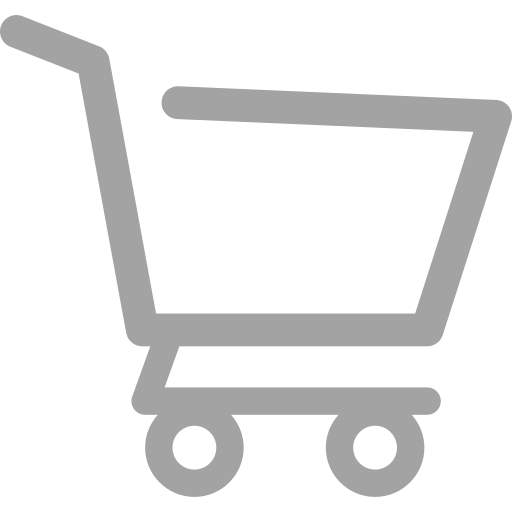
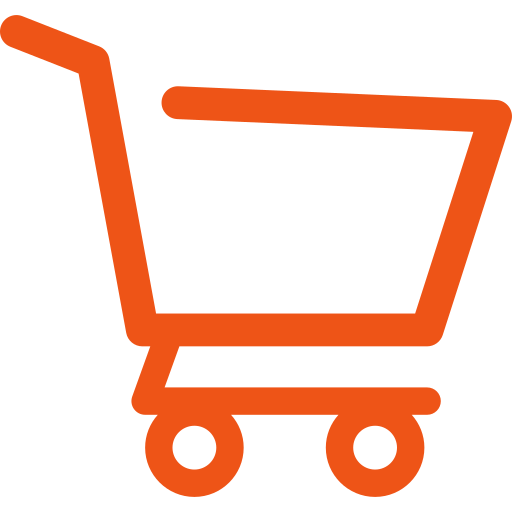
Update UI: Navbar, notifications, empty states (generated by blackbox.ai )

Changed region(s): [[0.0, 0.0312, 1.0, 0.9688]]

diff --git a/pages/Navbar.html b/pages/Navbar.html
@@ -5,9 +5,110 @@
     <title>sx</title>
 <meta name="viewport" content="width=device-width, initial-scale=1.0">
 <link rel="stylesheet" href="../css/Navbar.css">
+<link rel="stylesheet" href="../css/Notification.css">
+
+<style>
+  /* Styles for the overlay */
+  /* #overlay {
+      display: none;
+      position: fixed;
+      top: 0;
+      left: 0;
+      width: 100%;
+      height: 100%;
+      /* background-color: rgba(0, 0, 0, 0.5); 
+      z-index: 9999;
+  }
+
+  /* Styles for the notification container within the overlay *
+  #notificationContainer {
+      position: absolute;
+      top: 50%;
+      left: 85%;
+      transform: translate(-50%, -50%);
+      background-color: white;
+      padding: 20px;
+      border-radius: 5px;
+      box-shadow: 0px 0px 10px rgba(0, 0, 0, 0.5);
+  } */
+  #overlay {
+    display: none;
+    position: fixed;
+    width: 100%;
+    height: 100%;
+    top: 65px; /* Position relative to the navbar */
+    /* left: 0px; Position relative to the right side of the viewport */
+    z-index: 9999;
+}
+
+/* Styles for the notification container within the overlay */
+#notificationContainer {
+    position: absolute;
+    width: 350px;
+    max-width: 90%; /* Limiting the maximum width */
+    background-color: white;
+    padding: 7px;
+    border-radius: 5px;
+    box-shadow: 0px 0px 10px rgba(0, 0, 0, 0.5);
+}
+</style>
+<script>
+  function openOverlay() {
+    // document.getElementById('overlay').innerHTML = '';
+      // Construct HTML for the notification overlay
+      var html = '<div id="overlay">' +
+                      '<div id="notificationContainer" class="notification">' +
+                          '<div class="notificationHeader">Notification</div>' +
+                          '<div class="notes">' +
+                              '<b>Re: Support Case (#123i219021)</b>' +
+                              '<p>Lorem ipsum dolor sit amet consectetur. Ornare massa nunc nibh tristique. Non ligula tristique ut ut libero</p>' +
+                          '</div>' +
+                          '<div class="notificationFooter">' +
+                              '<button><img src="../Images/Setting.png" width="20" height="20"/></button>&nbsp;&nbsp;' +
+                              '<button onclick="markAllRead()"><img src="../Images/double-tick.png" width="20" height="20"/><span>&nbsp;Mark all read</span></button>' +
+                          '</div>' +
+                      '</div>' +
+                  '</div>';
+
+      // Create a temporary div element to hold the HTML
+      var tempDiv = document.createElement('div');
+      // console.log(tempDiv);
+      tempDiv.innerHTML = html;
+// console.log(tempDiv.innerHTML);
+      // Append the notification overlay to the body
+      document.body.appendChild(tempDiv.firstChild);
+      // Show the overlay
+      document.getElementById('overlay').style.display = 'block';
+
+      // Add event listener to close the overlay when clicking outside of it
+      document.getElementById('overlay').addEventListener('click', function(event) {
+          if (event.target === this) {
+              this.style.display = 'none';
+          }
+      });
+  }
+
+  function markAllRead() {
+    // Get the notification container element
+    var notificationContainer = document.getElementById('notificationContainer');
+
+    // Update the content of the notification container
+    notificationContainer.innerHTML = `
+        <div class="notificationHeader">Notification</div>
+        <div class="notificationBodyEmpty">
+            <img src="../Images/EmptyNotification.png" width="258" height="235.5"/>
+            <h3>No Notifications Yet </h3>
+            <h5 class="CBL">Come Back Later</h5>
+        </div>
+    `;
+
+    // Show the overlay
+    document.getElementById('overlay').style.display = 'block';
+}
+
+</script>
 </head>
 <body>
-
 <ul class="navbar">
   <li class="left"> <a href="Home"> <img src="../Images/User.png" width="26" height="26"/></a></li>
 
@@ -16,8 +117,8 @@
  
   <li class="right"> <a href="Profile"> <img src="../Images/User.png" width="26" height="26"/></a></li>
   <li class="right"> <a href="Cart"> <img src="../Images/Cart.png" width="25" height="25"/></a></li>
-  <li class="right"> <a href="Orders"> <img src="../Images/Orders.png" width="24" height="24"/></a></li>
-  <li class="right"> <a href="Orders"> <img src="../Images/Notification.png" width="24" height="24"/></a></li>
+  <li class="right"> <div onclick="openOverlay()"> <img src="../Images/Orders.png" width="24" height="24"/></div></li> 
+  <li class="right"> <div onclick="openOverlay()"> <img src="../Images/Notification.png" width="24" height="24"/></div></li>
 
   <li class="right">
     <form action="/action_page.php" class="search-form">
@@ -31,9 +132,11 @@
   </li>
 </ul>
 <div class="filterDiv">
+  <div id="overlayContainer"></div>
 <div class="ulDiv">
 <ul class="filter">
-  <li > <a href="keyboards" style="border-left: 1px solid #3c4b71;"> Keyboards</a></li>
+  <li > <a href="allProducts" style="border-left: 1px solid #ee5417;"> All Products</a></li>
+  <li > <a href="keyboards"> Keyboards</a></li>
 
   <!-- <li ><a href="Products">Products</a></li> -->
 

diff --git a/pages/testing.html b/pages/testing.html
@@ -1,0 +1,71 @@
+<!DOCTYPE html>
+<html>
+<head>
+    <title>Title</title>
+    <link rel="stylesheet" href="../css/Notification.css">
+    <style>
+        /* Styles for the overlay */
+        #overlay {
+            display: none;
+            position: fixed;
+            top: 0;
+            left: 0;
+            width: 100%;
+            height: 100%;
+            /* background-color: rgba(0, 0, 0, 0.5); */
+            z-index: 9999;
+        }
+
+        /* Styles for the notification container within the overlay */
+        #notificationContainer {
+            position: absolute;
+            top: 50%;
+            left: 100%;
+            transform: translate(-50%, -50%);
+            background-color: white;
+            padding: 20px;
+            border-radius: 5px;
+            box-shadow: 0px 0px 10px rgba(0, 0, 0, 0.5);
+        }
+    </style>
+    <script>
+        function createNotificationOverlay() {
+            // Construct HTML for the notification overlay
+            var html = '<div id="overlay">' +
+                            '<div id="notificationContainer" class="notification">' +
+                                '<div class="notificationHeader">Notification</div>' +
+                                '<div class="notes">' +
+                                    '<b>Re: Support Case (#123i219021)</b>' +
+                                    '<p>Lorem ipsum dolor sit amet consectetur. Ornare massa nunc nibh tristique. Non ligula tristique ut ut libero</p>' +
+                                '</div>' +
+                                '<div class="notificationFooter">' +
+                                    '<button><img src="../Images/Setting.png" width="20" height="20"/></button>&nbsp;&nbsp;' +
+                                    '<button><img src="../Images/double-tick.png" width="20" height="20"/><span>Mark all read</span></button>' +
+                                '</div>' +
+                            '</div>' +
+                        '</div>';
+
+            // Create a temporary div element to hold the HTML
+            var tempDiv = document.createElement('div');
+            // console.log(tempDiv);
+            tempDiv.innerHTML = html;
+// console.log(tempDiv.innerHTML);
+            // Append the notification overlay to the body
+            document.body.appendChild(tempDiv.firstChild);
+            // Show the overlay
+            document.getElementById('overlay').style.display = 'block';
+
+            // Add event listener to close the overlay when clicking outside of it
+            document.getElementById('overlay').addEventListener('click', function(event) {
+                if (event.target === this) {
+                    this.style.display = 'none';
+                }
+            });
+        }
+    </script>
+</head>
+<body>
+    <!-- Button to trigger the creation of the notification overlay -->
+    <button onclick="createNotificationOverlay()">Show Notification</button>
+</body>
+</html>

diff --git a/css/Navbar.css b/css/Navbar.css
@@ -1,7 +1,7 @@
 
 body {margin: 0;}
 div.filterDiv{
-  border-bottom: 1px solid #bbb6ba; 
+  border-bottom: 1px solid #d8d8d8; 
 }
 div.ulDiv{
   display: table;  
@@ -10,6 +10,7 @@ ul.filter {
   list-style-type: none;
   padding: 0;
   overflow: hidden;
+  margin: 10px;
 }
 ul.filter li {
  display:inline;
@@ -21,7 +22,7 @@ ul.filter li a {
   text-align: center;
   padding: 14px 16px;
   text-decoration: none;
-  border-right: 1px solid #3c4b71;
+  border-right: 1px solid #ee5417;
 }
 
 ul.navbar {
@@ -29,14 +30,14 @@ ul.navbar {
   margin: 0px ;
   padding: 0;
   overflow: hidden;
-  background-color: #3c4b71;}
+  background-color: #231f20;}
 
 ul.navbar li.left {float: left;padding-left: 20px; }
 ul.navbar li.right {float: right; padding-right: 20px;}
 
-ul.navbar li a {
+ul.navbar li a,ul.navbar li div {
   /* display: block; */
-  color: white;
+  color:#ee5417;
   display: flex;
   /* justify-content: center; */
   align-items: flex-end; 
@@ -49,8 +50,8 @@ ul.navbar li a {
  
   /* margin-top: 5px;*/
 }
-ul.navbar li a:hover:not(.active) { padding-bottom:8px;border-bottom: 1px solid #bbb6ba;}
-ul.navbar li a.active {  padding-bottom:8px;border-bottom: 1px solid #bbb6ba;text-shadow: 1px 2px 4px rgba(0,0,0,0.6); }
+ul.navbar li a:hover:not(.active),ul.navbar li div:hover:not(.active) { padding-bottom:8px;border-bottom: 1px solid #d8d8d8;}
+ul.navbar li a.active {  color:#d8d8d8; padding-bottom:8px;border-bottom: 1px solid #d8d8d8;text-shadow: 1px 2px 4px rgba(0,0,0,0.6); }
 
 
 
@@ -72,19 +73,22 @@ ul.navbar li button {
 
 
 .search-container{
-    background: #fff;
-    height: 25px;
+  /* float: none; */
+    /* height: 25px;
     border-radius: 30px;
-    padding: 10px 20px;
+    padding: 12px 20px;
     margin: 7px;
     display: flex;
     justify-content: center;
     align-items: center;
-    cursor: pointer;
+    cursor: pointer; */
+    all:unset;
+    /* background: #fff; */
+
     transition: 0.9s;
-    box-shadow: 8px 7px 20px 0px rgba(0,0,0,0.30);
+    /* box-shadow: 8px 7px 20px 0px rgba(0,0,0,0.30);
 -webkit-box-shadow: 8px 7px 20px 0px rgba(0,0,0,0.38);
--moz-box-shadow: 8px 7px 20px 0px rgba(0,0,0,0.38);
+-moz-box-shadow: 8px 7px 20px 0px rgba(0,0,0,0.38); */
 }
 
 .search-container:hover > .search-input{
@@ -93,9 +97,13 @@ ul.navbar li button {
 
 .search-container .search-input{
     all:unset;
+    color: #ee5417;
     width: 0px;
     font-weight: 500;
     font-size: 16px;
     transition: 0.8s;
 
+}
+.search-container .search-input::placeholder{
+color: #ee5417;
 }

diff --git a/css/Notification.css b/css/Notification.css
@@ -7,29 +7,46 @@
             width: 350px;
             border-radius: 25px;
             background: #ffffff;
-            box-shadow:  7px 7px 37px #c9c9c9,
-                        -7px -7px 37px #ffffff;
+            position: fixed;
+            left:83%;
+            transform: translateX(-50%); 
         }
         div.notificationHeader {
             padding: 20px 0px 10px 20px;
             font-weight: 700;
             font-size: large;
-            border-bottom: 0.5px solid #284489;
+            border-bottom: 0.5px solid #231f20;
         }
         div.notificationFooter {
             margin-top: auto;
             padding: 20px 20px;
-            border-top: 0.5px solid #284489;
+            border-top: 0.5px solid #231f20;
         }
         .notificationFooter button {
             all: unset;
         }
         .notificationFooter span {
             vertical-align: top; /* Align the text content vertically */
+            /* justify-content: center; */
         }
         div.notes{
             font-size: smaller;
             padding: 18px 10px 2px 10px;
-            border-top: 0.5px solid #284489;
-            border-bottom: 0.5px solid #284489;
+            border-top: 0.5px solid #ee5417;
+            border-bottom: 0.5px solid #ee5417;
+        }
+        div.notificationBodyEmpty {
+            display: flex; 
+            flex-direction: column;
+            justify-content: center; 
+            align-items: center; 
+            height: 80%;
+        }
+        div.notificationBodyEmpty img {
+            margin-top: -45px; 
+            margin-left: -25px;/* Adjust the margin to move the image up */
+        }
+        .CBL{
+            font-weight: 450;
+            margin-top: -3%;
         }

diff --git a/css/EmptyNotification.css b/css/EmptyNotification.css
@@ -16,14 +16,14 @@
             font-size: large;
             border-bottom: 0.5px solid #284489;
         }
-        div.notificationBody {
+        div.notificationBodyEmpty {
             display: flex; 
             flex-direction: column;
             justify-content: center; 
             align-items: center; 
             height: 80%;
         }
-        div.notificationBody img {
+        div.notificationBodyEmpty img {
             margin-top: -45px; 
             margin-left: -25px;/* Adjust the margin to move the image up */
         }
